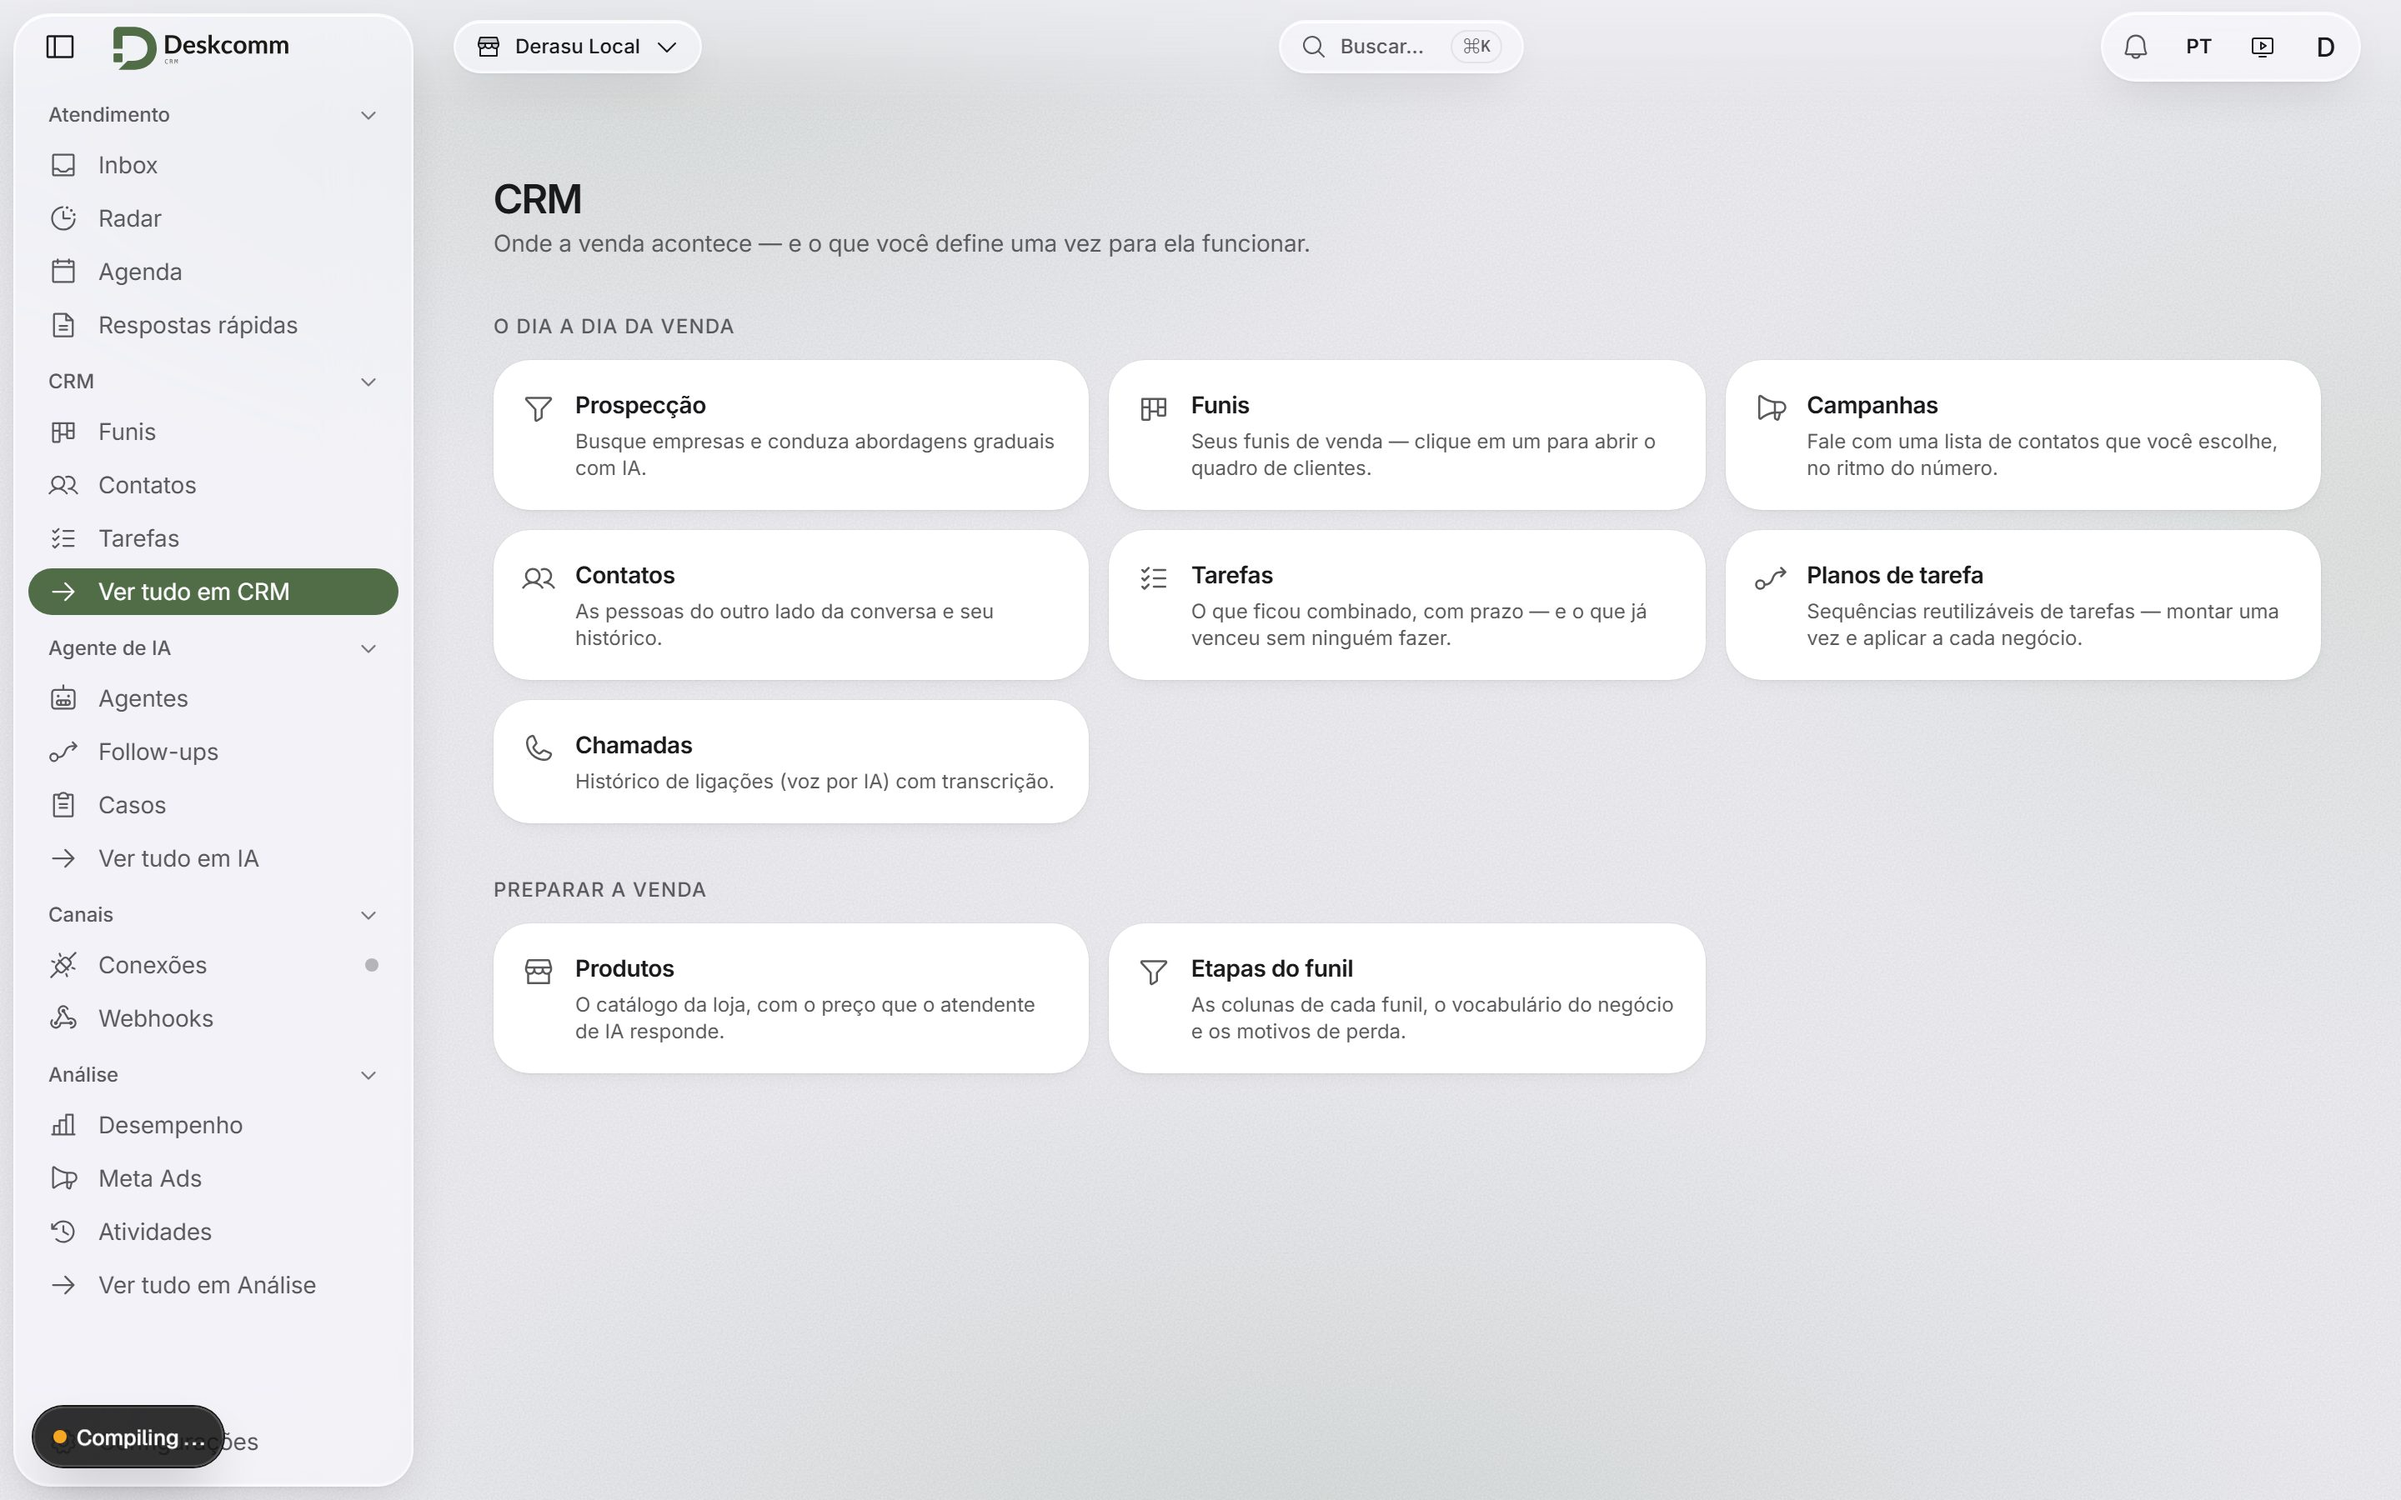
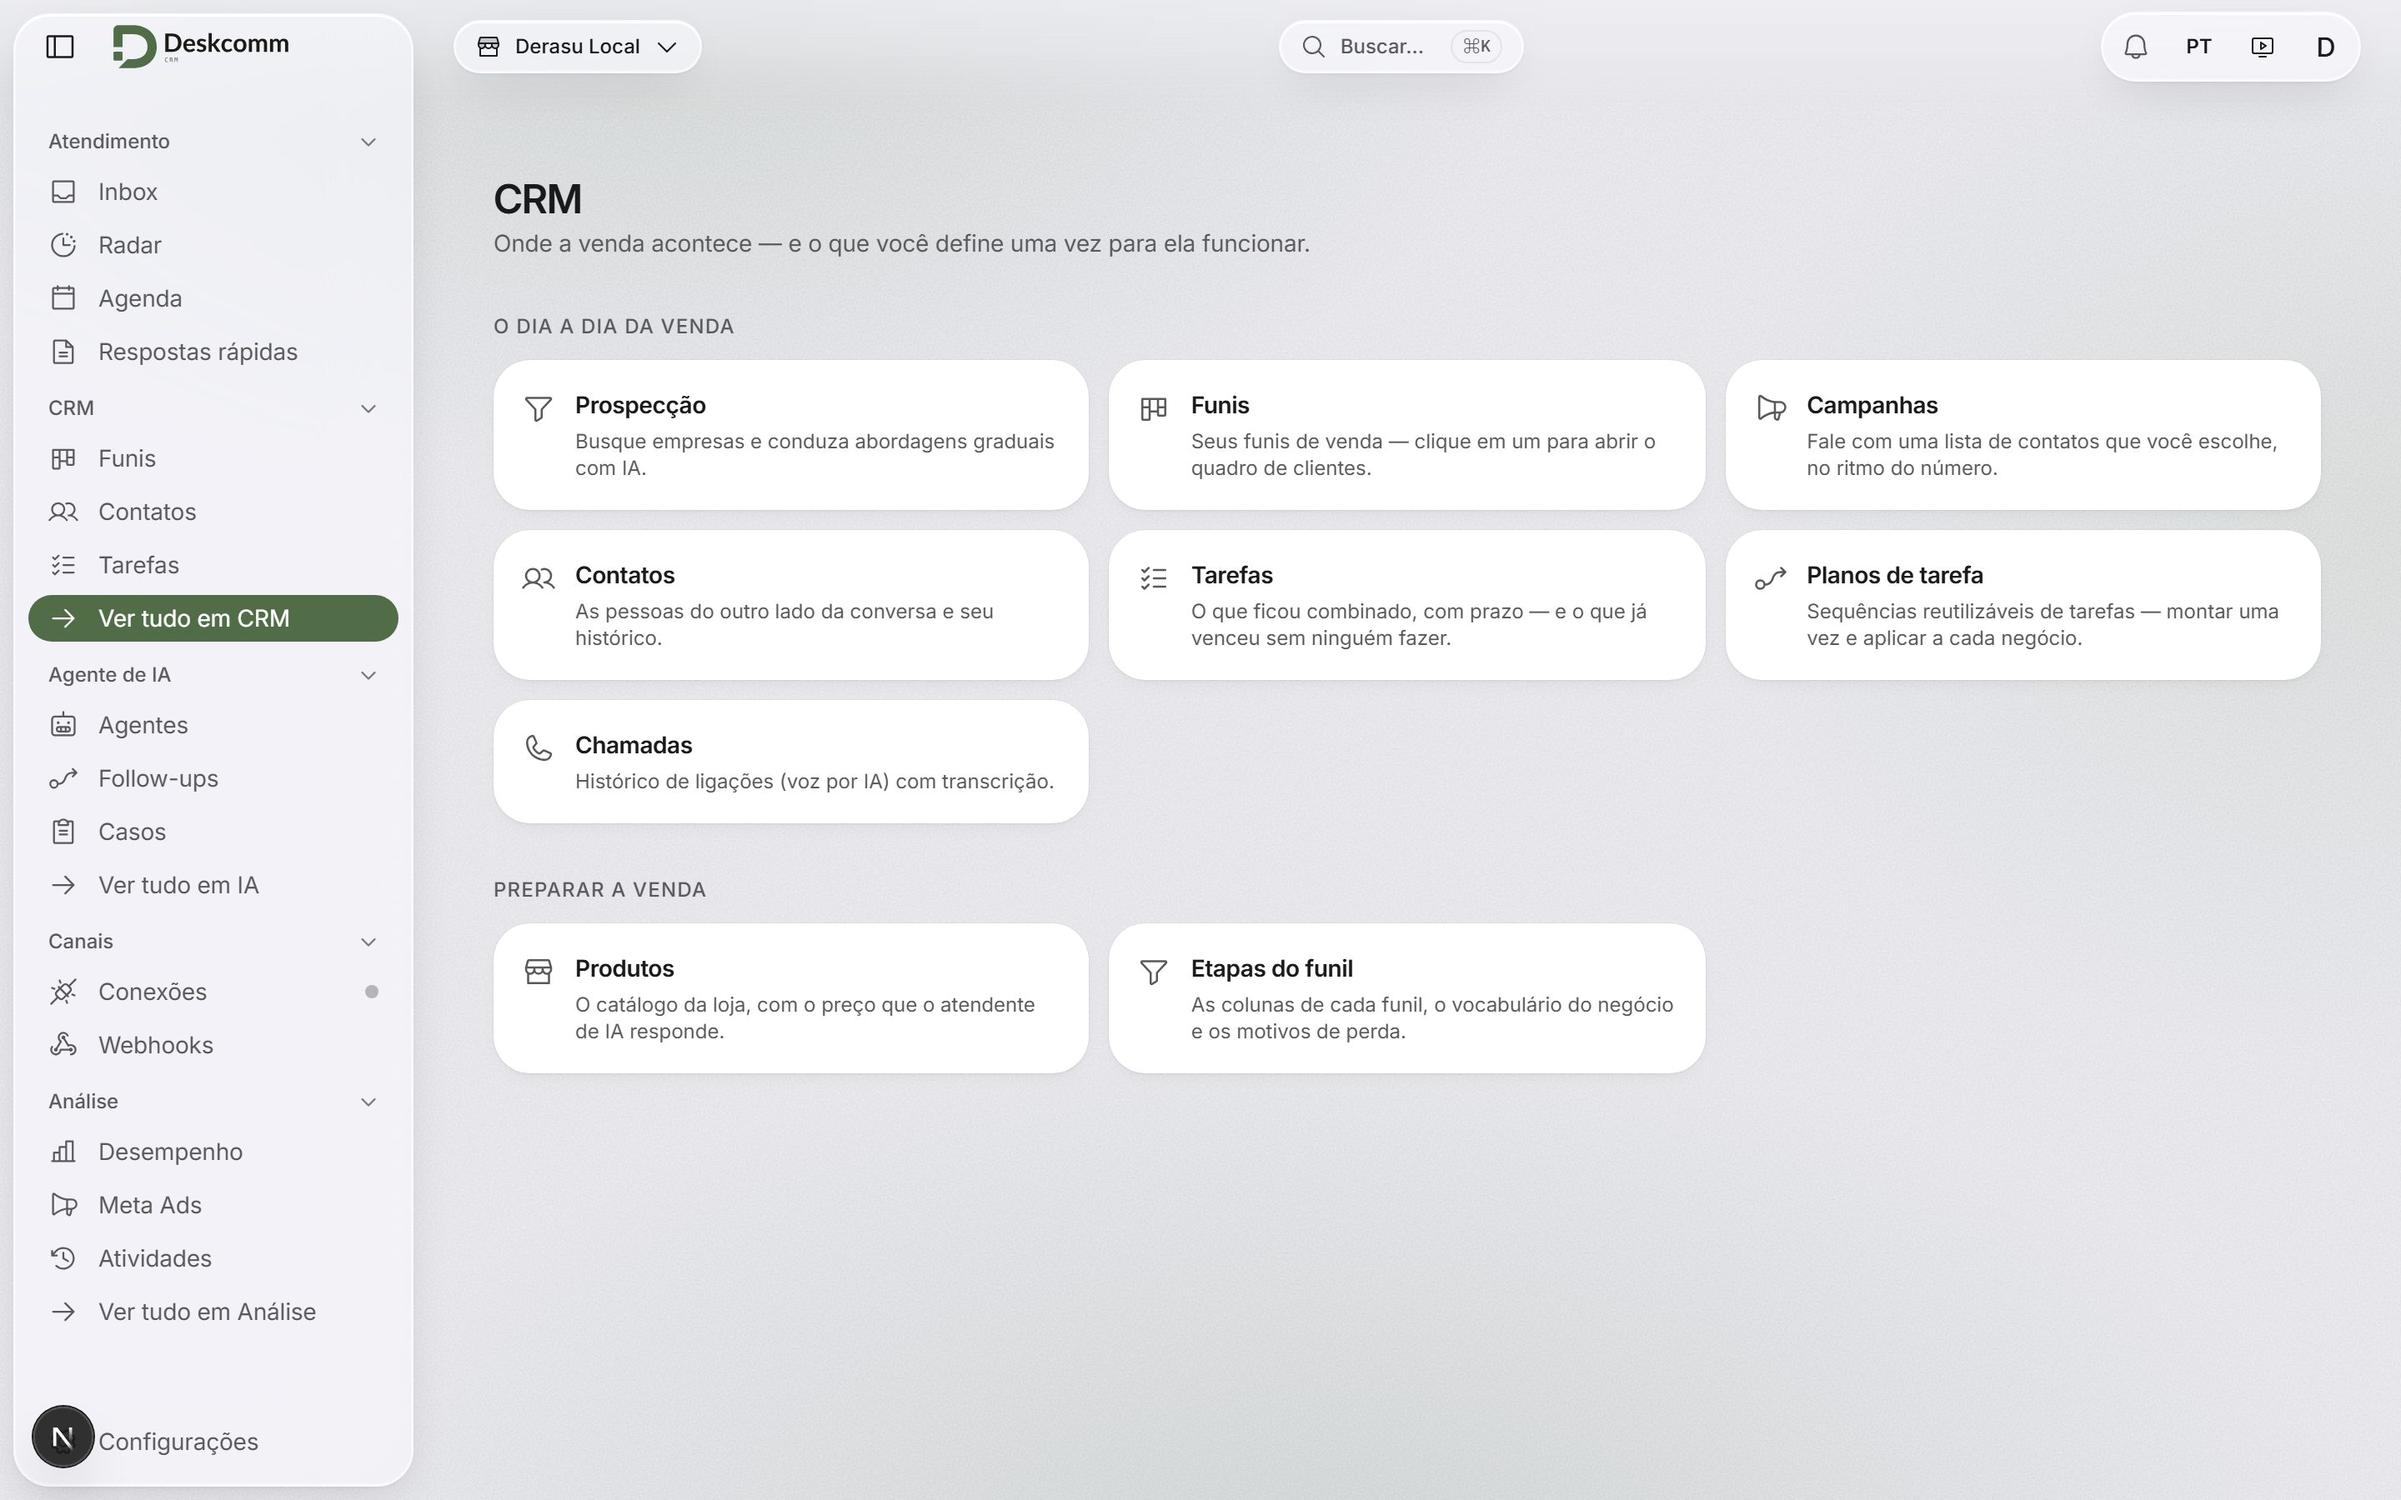
fix(derasu): linha da marca da barra fixada volta aos 56px do h-14
A prova logo-moldura-no-tema-escuro mede essa altura. A marca segue alinhada
ao ícone por um respiro embaixo: medido, centro da marca e do ícone a 28px da
janela nos dois temas. Evidência refeita com as duas medidas.

Changed region(s): [[0.0, 0.0622, 0.1875, 0.9022], [0.0312, 0.9333, 0.0938, 0.9956]]

diff --git a/app/globals.css b/app/globals.css
@@ -2509,8 +2509,11 @@ a:active > .ds-cartao {
    O ÍCONE fica no MESMO ponto da tela nos dois estados: 40px, centrado na
    linha do topo (56px de altura → 8px de cima) e a 16px da borda, que é a
    folga da lâmina (8px) mais o respiro de dentro dela (8px). Fixada, a lâmina
-   reserva esse canto: a linha da marca baixa para 40px, centrada na mesma
-   altura do ícone, e começa depois dele. */
+   reserva esse canto: a marca começa depois do ícone e sobe para a mesma
+   altura dele. A linha da marca continua com os 56px do `h-14` (a prova
+   `logo-moldura-no-tema-escuro` mede essa altura): quem sobe a marca é o
+   respiro embaixo — o conteúdo fica nos 38px de cima, centrado a 28px da
+   janela (8 de folga + 1 de borda + 19), a linha do ícone e do topo. */
 .ds-icone-barra {
   position: fixed;
   z-index: 50;
@@ -2557,7 +2560,7 @@ a:active > .ds-cartao {
 }
 
 [data-barra-lateral] .ds-barra-lateral > :first-child {
-  height: 2.5rem;
+  padding-bottom: calc(1rem + 2px);
   padding-left: 3.5rem;
 }
 
